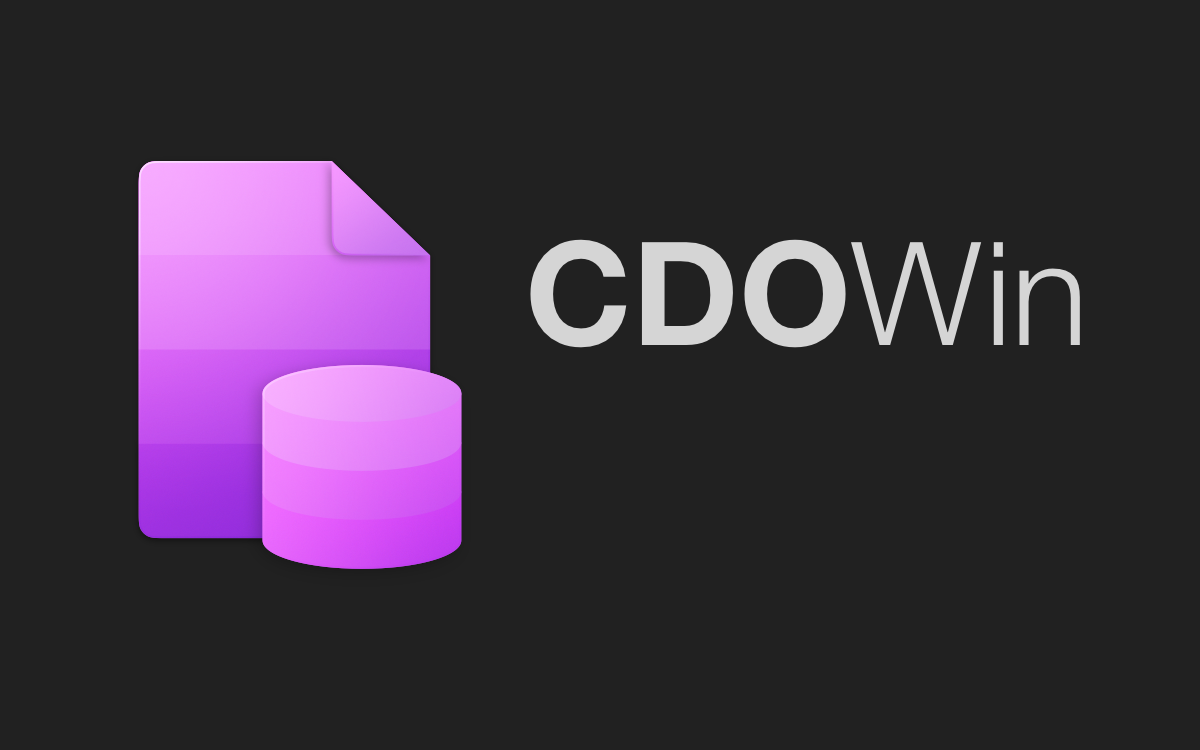
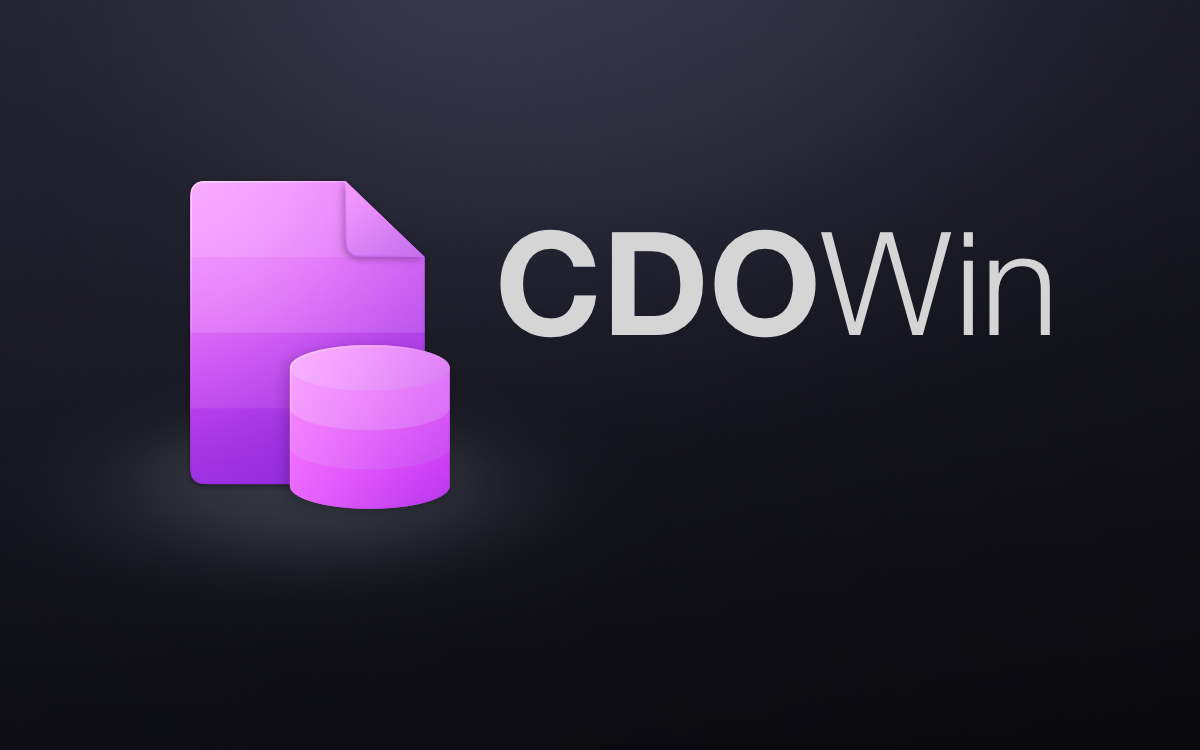
spash screen updates

diff --git a/CDOWin/Views/SplashWindow.xaml b/CDOWin/Views/SplashWindow.xaml
@@ -30,17 +30,21 @@
         <Grid>
             <Grid.RowDefinitions>
                 <RowDefinition Height="*"/>
+                <RowDefinition Height="100"/>
                 <RowDefinition Height="Auto"/>
-                <RowDefinition Height="84"/>
+                <RowDefinition Height="12"/>
             </Grid.RowDefinitions>
-            <TextBlock Grid.Row="1" Margin="170,8,8,2"
+            <TextBlock Grid.Row="1" Margin="160,8,8,2"
+                       Text="v1.0, Build 10"
                        Foreground="{ThemeResource SystemAccentColor}"
                        Opacity="0.8"
                        HorizontalAlignment="Left"
                        FontWeight="SemiBold" 
-                       FontSize="24"
+                       FontSize="18"
                        x:Name="VersionBlock"/>
-            <ProgressBar Grid.Row="2" VerticalAlignment="Bottom"
+            <TextBlock Grid.Row="2" Margin="10,0"
+                       Text="Loading..."/>
+            <ProgressBar Grid.Row="3" VerticalAlignment="Bottom"
                          Foreground="{ThemeResource SystemAccentColorLight1}"
                          IsIndeterminate="True"/>
         </Grid>

diff --git a/CDOWin/Views/SplashWindow.xaml.cs b/CDOWin/Views/SplashWindow.xaml.cs
@@ -24,6 +24,6 @@ public sealed partial class SplashWindow : WinUIEx.WindowEx {
 
     private string GetAppVersion() {
         var version = Package.Current.Id.Version;
-        return $"Beta {version.Major}.{version.Minor}.{version.Build}";
+        return $"v{version.Major}.{version.Minor} Build {version.Build}";
     }
 }
